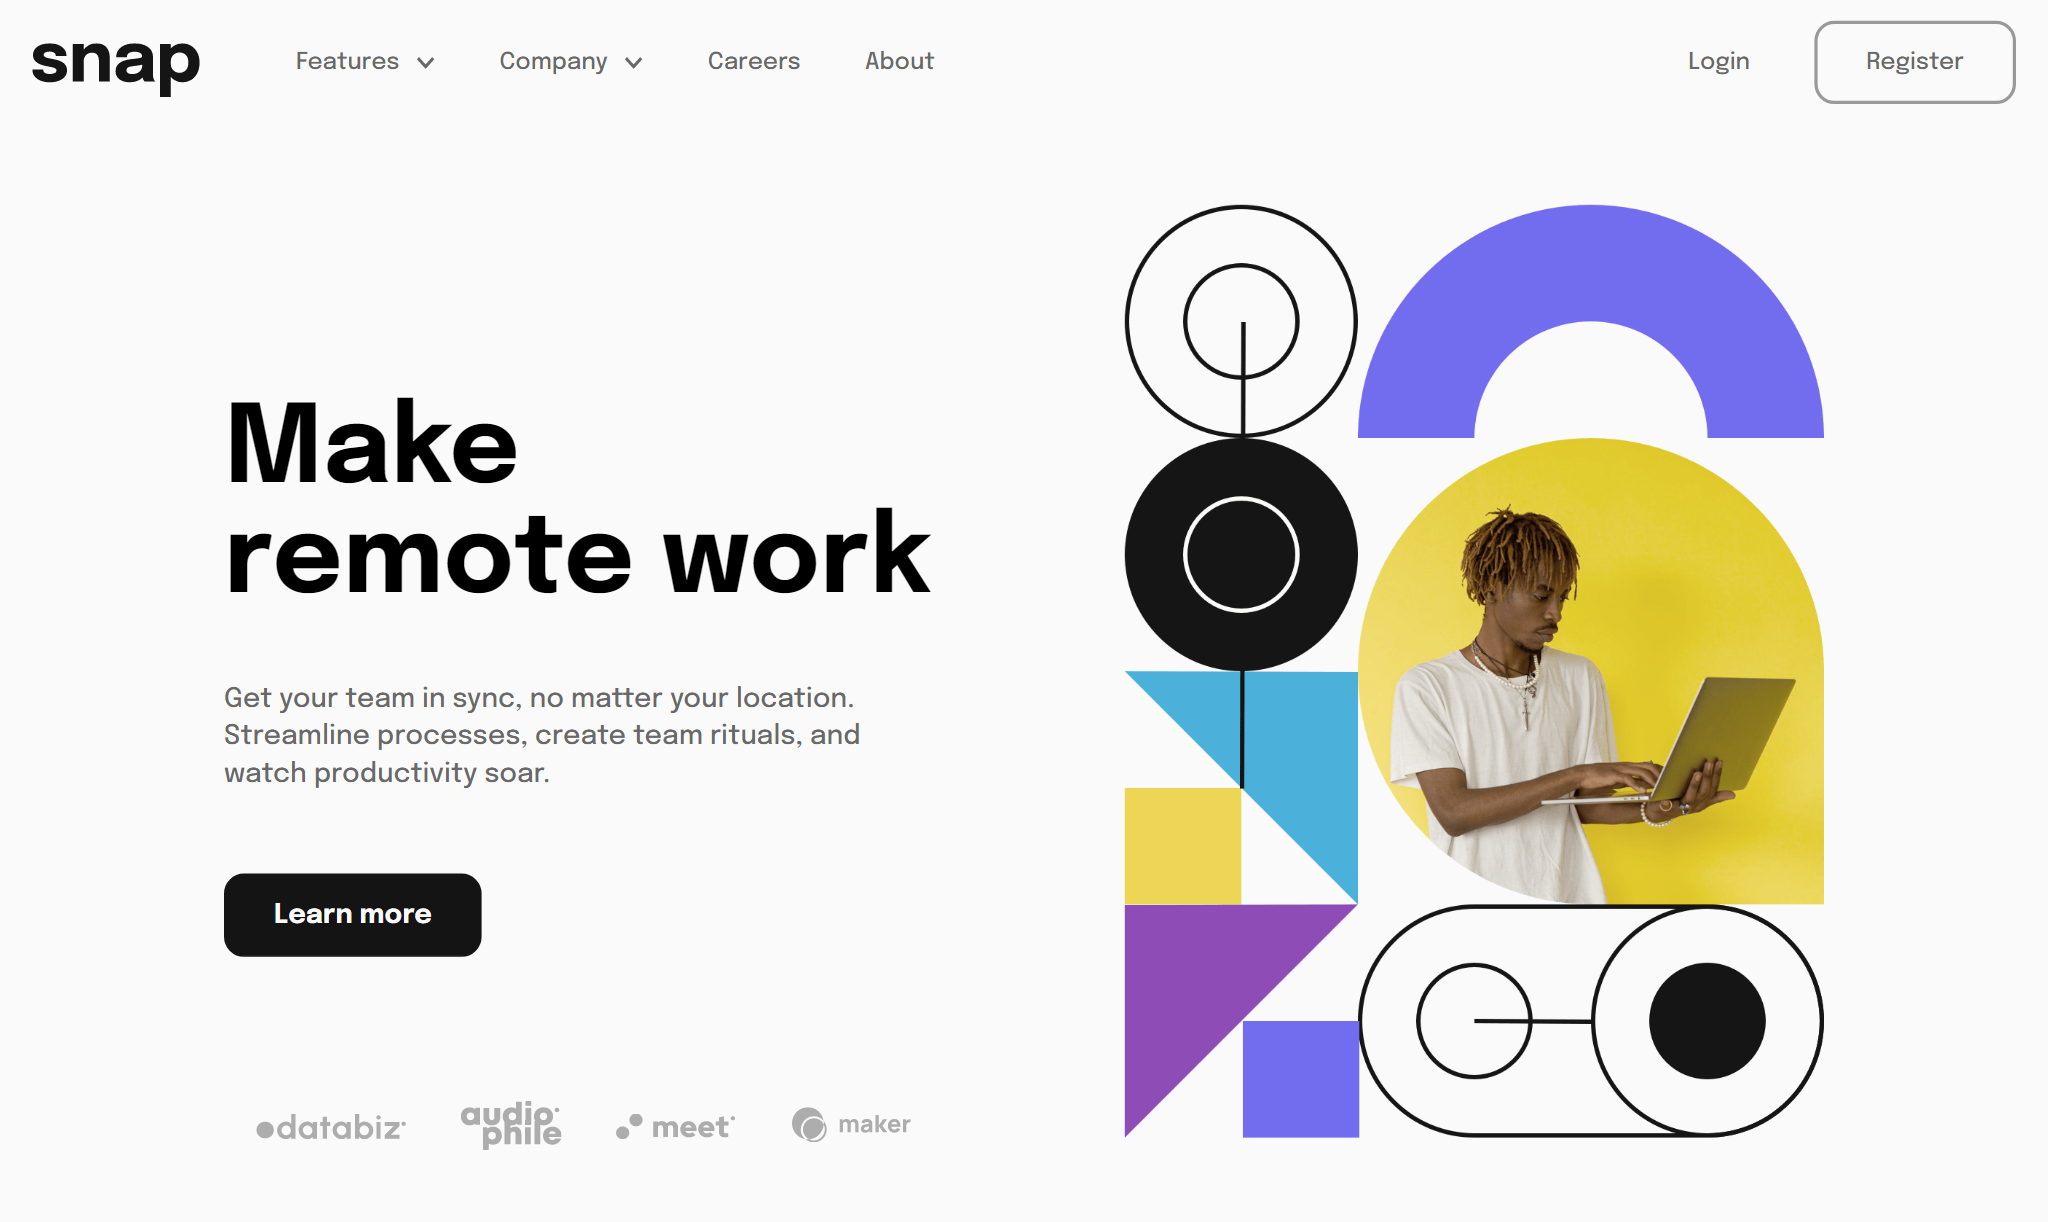
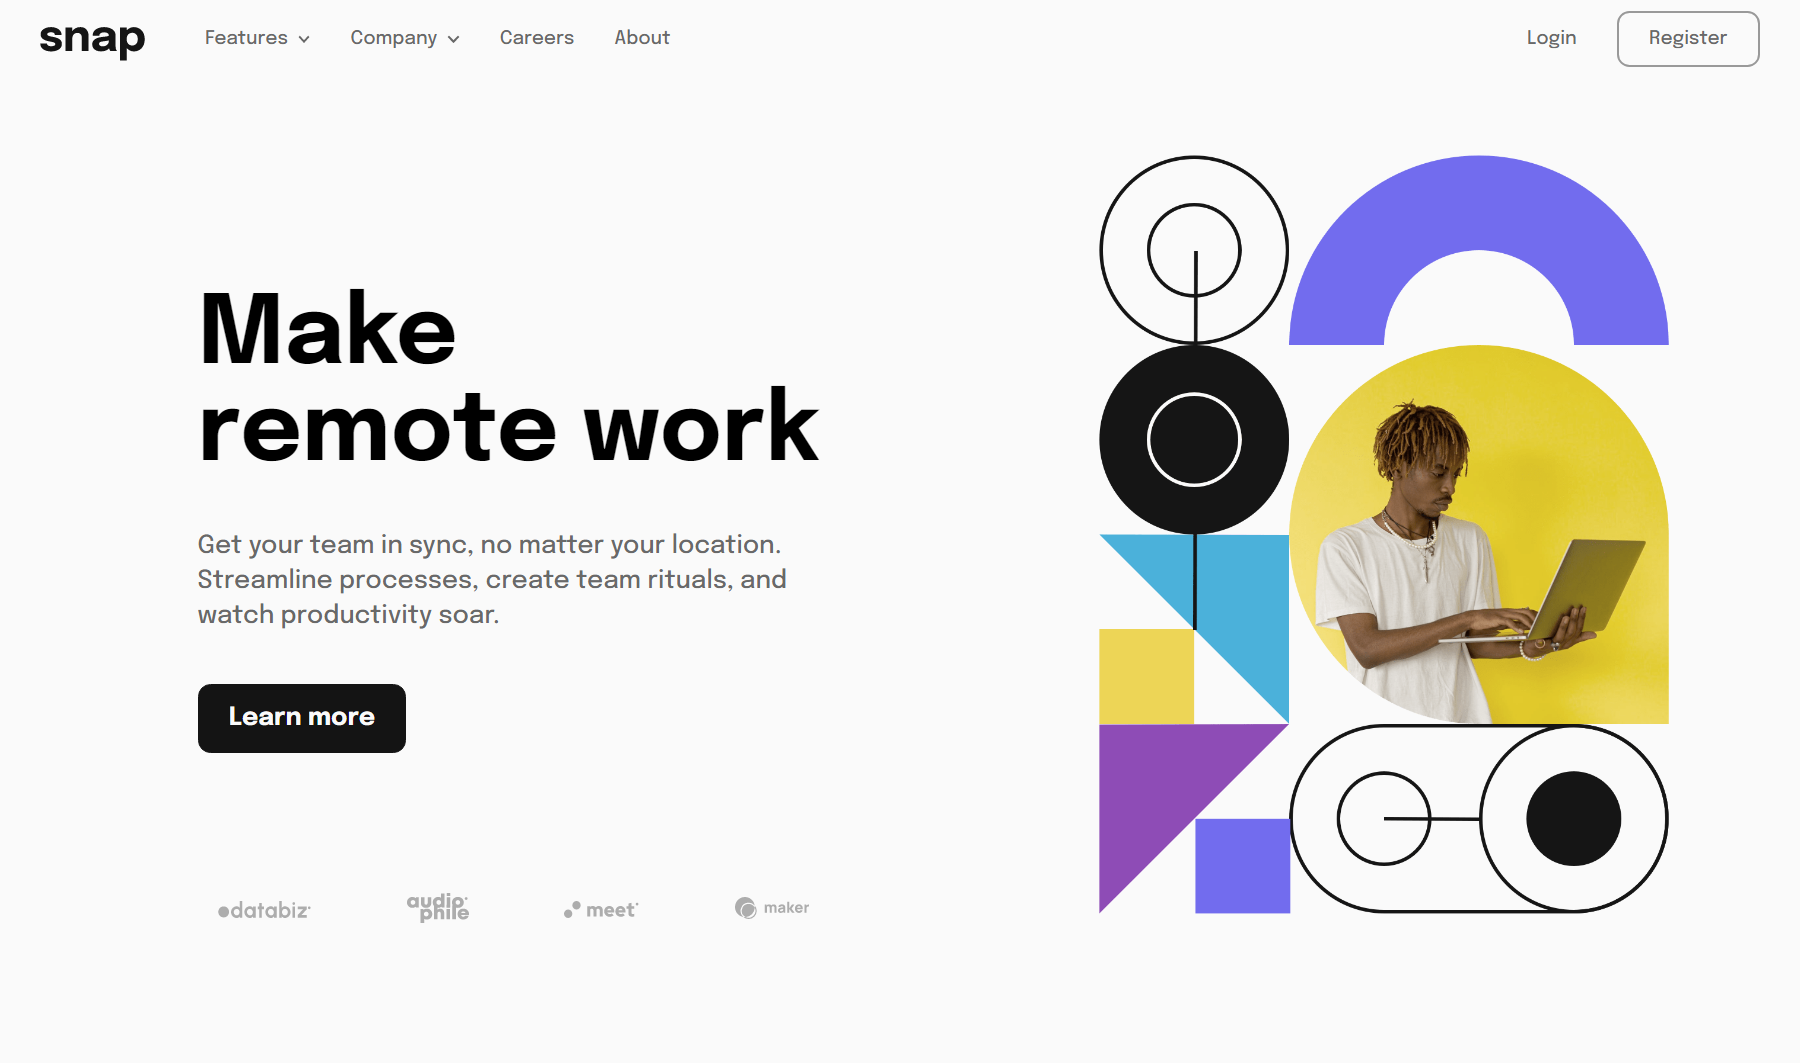
commit

diff --git a/css/style.css b/css/style.css
@@ -1,7 +1,6 @@
 @import url("https://fonts.googleapis.com/css2?family=Epilogue:wght@500;700&display=swap");
 .btn {
   display: inline-block;
-  padding: 0.8rem 1.5rem;
   border-radius: 0.625rem;
   -webkit-transition: 0.3s;
   transition: 0.3s;
@@ -10,6 +9,7 @@
 
 .btn__ghost {
   border: 2px solid #999999;
+  padding: 0.8rem 1.5rem;
 }
 
 .btn__ghost:hover {
@@ -20,6 +20,7 @@
   background-color: #141414;
   color: #fafafa;
   border: 1px solid #141414;
+  padding: 1rem 1.5rem;
   margin-top: 1.5rem;
   font-size: 0.9125em;
 }
@@ -27,18 +28,20 @@
 @media screen and (min-width: 969px) {
   .btn__fill {
     font-size: 0.75em;
+    margin-top: 2rem;
+  }
+}
+
+@media screen and (min-width: 1218px) {
+  .btn__fill {
+    font-size: 1em;
+    margin-top: 2.5rem;
   }
 }
 
 .btn__fill:hover {
   background-color: #fafafa;
   color: #141414;
-}
-
-@media screen and (min-width: 969px) {
-  .btn__fill {
-    margin-top: 2.5rem;
-  }
 }
 
 * {
@@ -56,6 +59,12 @@ body {
   -webkit-transition: background 0.3s;
   transition: background 0.3s;
   overflow-x: hidden;
+}
+
+@media screen and (min-width: 1218px) {
+  body {
+    font-size: 20px;
+  }
 }
 
 /* changing background color upon clicking menu */
@@ -86,6 +95,12 @@ img {
   padding: 0 1rem;
 }
 
+@media screen and (min-width: 969px) {
+  .header {
+    padding: 0 2rem;
+  }
+}
+
 .nav {
   display: -webkit-box;
   display: -ms-flexbox;
@@ -107,7 +122,6 @@ img {
   position: absolute;
   top: 0;
   right: -100%;
-  overflow-x: hidden;
   background-color: #fafafa;
   min-height: 100vh;
   width: 15.625rem;
@@ -216,6 +230,12 @@ img {
   }
 }
 
+@media screen and (min-width: 1218px) {
+  .nav__link {
+    font-size: 0.75em;
+  }
+}
+
 .nav .arrow {
   margin-left: 0.5rem;
   -webkit-transition: 0.3s;
@@ -291,7 +311,7 @@ img {
 }
 
 .home__content {
-  max-width: 50rem;
+  max-width: 54.25rem;
   margin: 0 auto;
 }
 
@@ -305,6 +325,20 @@ img {
         -ms-flex-direction: row-reverse;
             flex-direction: row-reverse;
     margin-top: 2rem;
+  }
+}
+
+@media screen and (min-width: 1218px) {
+  .home__content {
+    max-width: 70.25rem;
+  }
+}
+
+@media screen and (min-width: 1218px) {
+  .home__banner {
+    -webkit-transform: scale(1.3);
+            transform: scale(1.3);
+    padding-top: 5rem;
   }
 }
 
@@ -327,16 +361,27 @@ img {
   }
 }
 
+@media screen and (min-width: 1218px) {
+  .home__text {
+    margin: 8rem auto 2rem 0;
+  }
+}
+
 .home__title {
   font-size: 2em;
   font-weight: 700;
-  margin-bottom: 1rem;
+  margin-bottom: 0.5em;
 }
 
 @media screen and (min-width: 969px) {
   .home__title {
-    font-size: 3em;
-    margin-bottom: 2rem;
+    font-size: 3.2em;
+  }
+}
+
+@media screen and (min-width: 1218px) {
+  .home__title {
+    font-size: 3.8em;
   }
 }
 
@@ -347,8 +392,14 @@ img {
 
 @media screen and (min-width: 969px) {
   .home__desc {
-    font-size: 0.75em;
+    font-size: 0.8125em;
     color: dimgray;
+  }
+}
+
+@media screen and (min-width: 1218px) {
+  .home__desc {
+    font-size: 1em;
   }
 }
 
@@ -360,6 +411,12 @@ img {
 @media screen and (min-width: 969px) {
   .footer {
     padding-top: 4.5rem;
+  }
+}
+
+@media screen and (min-width: 1218px) {
+  .footer {
+    padding-top: 7rem;
   }
 }
 

diff --git a/scss/style.scss b/scss/style.scss
@@ -15,6 +15,10 @@ body{
   min-height: 100vh;
   transition: background 0.3s;
   overflow-x: hidden;
+
+  @include xl {
+    font-size: 20px;
+  }
 }
 
 /* changing background color upon clicking menu */
@@ -41,6 +45,10 @@ img{
 // ===== navigation ===== \\
 .header{
   padding: 0 1rem;
+
+  @include lg {
+    padding: 0 2rem;
+  }
 }
 .nav{
   display: flex;
@@ -56,7 +64,6 @@ img{
     position: absolute;
     top: 0;
     right: -100%;
-    overflow-x: hidden;
     background-color: $white;
     min-height: 100vh;
     width: rem(250);
@@ -140,6 +147,9 @@ img{
         color: $black;
       }
     }
+    @include xl {
+      font-size: 0.75em;
+    }
   }
   .arrow{
     margin-left: 0.5rem;
@@ -206,7 +216,7 @@ img{
 .home{
 
   &__content{
-    max-width: rem(800);
+    max-width: rem(868);
     margin: 0 auto;
 
     @include lg {
@@ -214,8 +224,17 @@ img{
       flex-direction: row-reverse;
       margin-top: 2rem;
     }
+
+    @include xl {
+      max-width: rem(1124);
+    }
   }
   &__banner{
+
+    @include xl {
+      transform: scale(1.3);
+      padding-top: 5rem;
+    }
 
     @include lg {
       max-width: rem(350);
@@ -230,15 +249,20 @@ img{
       max-width: 45%;
       margin: 6rem auto 2rem 0;
     }
+    @include xl {
+      margin: 8rem auto 2rem 0;
+    }
   }
   &__title{
     font-size: 2em;
     font-weight: 700;
-    margin-bottom: 1rem;
+    margin-bottom: 0.5em;
 
     @include lg {
-      font-size: 3em;
-      margin-bottom: 2rem;
+      font-size: 3.2em;
+    }
+    @include xl {
+      font-size: 3.8em;
     }
   }
   &__desc{
@@ -246,8 +270,11 @@ img{
     line-height: 1.4;
 
     @include lg {
-      font-size: 0.75em;
+      font-size: 0.8125em;
       color: $medium-gray;
+    }
+    @include xl {
+      font-size: 1em;
     }
   }
 }
@@ -257,6 +284,9 @@ img{
 
   @include lg {
     padding-top: 4.5rem;
+  }
+  @include xl {
+    padding-top: 7rem;
   }
 
   &__brands{

diff --git a/scss/_utils.scss b/scss/_utils.scss
@@ -4,13 +4,13 @@
 // buttons
 .btn{
   display: inline-block;
-  padding: 0.8rem 1.5rem;
   border-radius: rem(10);
   transition: 0.3s;
   font-weight: 700;
 
   &__ghost{
     border: 2px solid $light-gray;
+    padding: 0.8rem 1.5rem;
 
     &:hover{
       border: 2px solid $black;
@@ -21,20 +21,22 @@
     background-color: $black;
     color: $white;
     border: 1px solid $black;
+    padding: 1rem 1.5rem;
     margin-top: 1.5rem;
     font-size: 0.9125em;
 
     @include lg {
       font-size: 0.75em;
+      margin-top: 2rem;
+    }
+    @include xl {
+      font-size: 1em;
+      margin-top: 2.5rem;
     }
 
     &:hover{
       background-color: $white;
       color: $black;
-    }
-
-    @include lg {
-      margin-top: 2.5rem;
     }
   }
 }

diff --git a/scss/_config.scss b/scss/_config.scss
@@ -8,5 +8,6 @@ $light-gray: hsl(0, 0%, 60%); // register button border
 $black: hsl(0, 0%, 8%);
 
 // media queries
+$screen-xl-min: 1218px;
 $screen-lg-min: 969px;
 $screen-sm-max: 968px;

diff --git a/scss/_mixins.scss b/scss/_mixins.scss
@@ -1,3 +1,9 @@
+@mixin xl {
+  @media screen and (min-width: #{$screen-xl-min}) {
+    @content;
+  }
+}
+
 @mixin lg {
   @media screen and (min-width: #{$screen-lg-min}) {
     @content;
